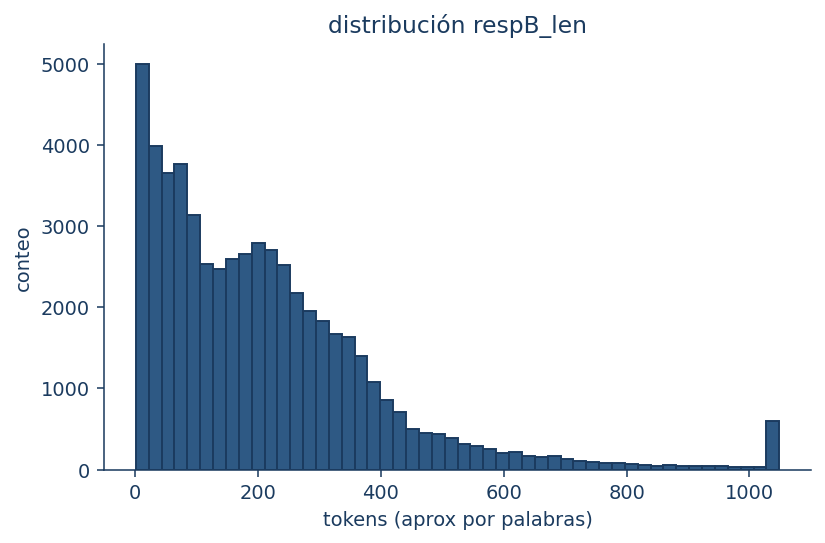
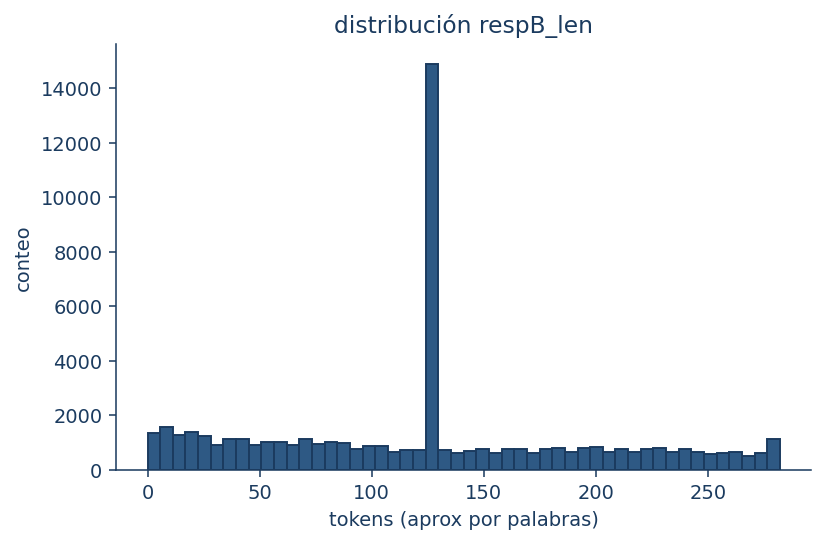
feat: implementación final para limpieza

Changed region(s): [[0.0303, 0.0884, 0.9697, 0.9724], [0.3939, 0.0295, 0.7273, 0.0884]]

diff --git a/01_data_cleaning/core/truncation.py b/01_data_cleaning/core/truncation.py
@@ -1,63 +1,136 @@
 import re
 import pandas as pd
-from settings import MAX_LEN_RESP
+
+from settings import (
+    MAX_LEN_PROMPT, MAX_LEN_RESP, BULLET_CAP,
+    HEAD_TOK, TAIL_TOK, MID_STRIDE, computeRespTarget
+)
+from text_utils import splitSentences, tokenCount, stripBoilerplate
 
 def estimateTruncation(len_series: pd.Series, max_len: int) -> pd.Series:
-    # devuelve True donde la serie excede max_len
     return (len_series > max_len)
 
-def collapseBulletsAndRepeats(text: str, max_bullets: int = 40) -> str:
-    t = str(text or "")  # asegurar que sea string
-    lines = [l for l in t.split("\n")]
-    count = 0
-    out_lines = []
+def collapseBulletsAndRepeats(text: str, max_bullets: int = BULLET_CAP) -> str:
+    t = str(text or "")
+    # limitar bullets
+    lines = t.split("\n")
+    out, seen, count = [], {}, 0
     for l in lines:
-        # contar bullets y limitar a max_bullets
         if re.match(r"^\s*(?:[-\*\•]|\d+\.)\s+", l):
             count += 1
             if count <= max_bullets:
-                out_lines.append(l)
+                out.append(l)
         else:
-            out_lines.append(l)
+            out.append(l)
     if count > max_bullets:
-        out_lines.append("…")  # indicar truncamiento
-    t = "\n".join(out_lines)
+        out.append("…")
+    t = "\n".join(out)
 
-    # separar en chunks por saltos de línea dobles
-    chunks = [c.strip() for c in re.split(r"(\n\s*\n+)", t)]
-    seen = {}
-    new_chunks = []
+    # dedup de bloques repetidos (>2)
+    chunks = [c for c in re.split(r"(\n\s*\n+)", t)]
+    out = []
     for c in chunks:
-        if not c.strip():
-            new_chunks.append(c)
+        k = c.strip().lower()
+        if k and not k.isspace():
+            seen[k] = seen.get(k, 0) + 1
+            if seen[k] <= 2:
+                out.append(c)
+        else:
+            out.append(c)
+    return "".join(out).strip() or text
+
+def headTailTokens(tokens: list, head: int, tail: int) -> list:
+    if len(tokens) <= head + tail:
+        return tokens
+    return tokens[:head] + ["…"] + tokens[-tail:]
+
+def sampleMiddle(tokens: list, target: int, stride: int = MID_STRIDE) -> list:
+    if len(tokens) <= target:
+        return tokens
+    # recorta del centro con muestreo
+    left = tokens[: len(tokens)//2]
+    right = tokens[len(tokens)//2 :]
+    mid = tokens[len(left)-min(64, len(tokens)//4) : len(left)+min(64, len(tokens)//4)]
+    sampled = mid[::max(1, stride)]
+    merged = left[:HEAD_TOK] + ["…"] + sampled + ["…"] + right[-TAIL_TOK:]
+    if len(merged) > target:
+        merged = merged[:target-1] + ["…"]
+    return merged
+
+def compressToTarget(text: str, resp_target: int) -> str:
+    t = stripBoilerplate(str(text or "").strip())
+    if not t:
+        return text
+
+    # si cabe, retorna
+    toks = t.split()
+    if len(toks) <= resp_target:
+        return t
+
+    # head+tail
+    toks = headTailTokens(toks, HEAD_TOK, TAIL_TOK)
+    if len(toks) <= resp_target:
+        return " ".join(toks)
+
+    # muestreo del medio
+    toks = sampleMiddle(toks, resp_target, MID_STRIDE)
+    # dedup de oraciones exactas (>2)
+    sents = splitSentences(" ".join(toks))
+    counts, out = {}, []
+    for s in sents:
+        k = s.strip().lower()
+        if not k:
             continue
-        k = c.lower()
-        seen[k] = seen.get(k, 0) + 1
-        if seen[k] <= 2:  # permitir máximo 2 repeticiones
-            new_chunks.append(c)
-    t = "".join(new_chunks)
+        counts[k] = counts.get(k, 0) + 1
+        if counts[k] <= 2:
+            out.append(s)
+    out_text = " ".join(out).strip()
+    if tokenCount(out_text) > resp_target:
+        out_text = " ".join(out_text.split()[:resp_target-1] + ["…"])
+    return out_text or text
 
-    # quitar saludos largos
-    t = re.sub(r"^(?:hi|hello|dear|greetings)[\s\.,!\-:]*.{150,300}?(?=\n|$)", "", t, flags=re.I|re.S)
-    # quitar menciones de ser IA
-    t = re.sub(r"(?:as an ai|i am an ai|language model).*", "", t, flags=re.I)
-    return t.strip() or text  # si queda vacío, devolver texto original
+def miniHeadTailPrompt(s: str) -> str:
+    toks = str(s or "").split()
+    if len(toks) <= MAX_LEN_PROMPT:
+        return s
+    toks = headTailTokens(toks, HEAD_TOK // 2, TAIL_TOK // 2)
+    return " ".join(toks)
 
-def applyTailControl(df: pd.DataFrame, max_len_resp=MAX_LEN_RESP, p99_hint: dict = None):
-    # extraer percentiles p99 si hay hint
-    p99_a = p99_hint.get("respA_len_p99") if p99_hint else None
-    p99_b = p99_hint.get("respB_len_p99") if p99_hint else None
+def applyTailControl(df: pd.DataFrame, max_len_resp: int = MAX_LEN_RESP, p99_hint: dict | None = None):
+    # longitudes base
+    a_len = df["response_a_clean"].astype(str).str.split().str.len()
+    b_len = df["response_b_clean"].astype(str).str.split().str.len()
+    p_len = df["prompt_clean"].astype(str).str.split().str.len()
 
-    # calcular largo de cada respuesta
-    a_len = df["response_a_clean"].str.split().str.len()
-    b_len = df["response_b_clean"].str.split().str.len()
+    # p99 opcional
+    p99_a = p99_hint.get("respA_len_p99") if p99_hint else a_len.quantile(0.99)
+    p99_b = p99_hint.get("respB_len_p99") if p99_hint else b_len.quantile(0.99)
 
-    # determinar qué filas necesitan truncamiento
-    need_a = estimateTruncation(a_len, max_len_resp) | (a_len >= (p99_a or a_len.quantile(0.99)))
-    need_b = estimateTruncation(b_len, max_len_resp) | (b_len >= (p99_b or b_len.quantile(0.99)))
+    need_a = estimateTruncation(a_len, max_len_resp) | (a_len >= p99_a)
+    need_b = estimateTruncation(b_len, max_len_resp) | (b_len >= p99_b)
 
-    # truncar donde se necesita
-    df.loc[need_a, "response_a_clean"] = df.loc[need_a, "response_a_clean"].map(lambda t: collapseBulletsAndRepeats(t, 28))
-    df.loc[need_b, "response_b_clean"] = df.loc[need_b, "response_b_clean"].map(lambda t: collapseBulletsAndRepeats(t, 28))
-    
+    # objetivo dinámico por fila
+    resp_targets = p_len.map(lambda n: computeRespTarget(int(n)))
+
+    # A
+    if need_a.any():
+        sub = df.loc[need_a, "response_a_clean"].map(lambda t: collapseBulletsAndRepeats(t, BULLET_CAP))
+        sub = sub.map(stripBoilerplate)
+        df.loc[need_a, "response_a_clean"] = [
+            compressToTarget(t, int(resp_targets.loc[idx])) for idx, t in sub.items()
+        ]
+
+    # B
+    if need_b.any():
+        sub = df.loc[need_b, "response_b_clean"].map(lambda t: collapseBulletsAndRepeats(t, BULLET_CAP))
+        sub = sub.map(stripBoilerplate)
+        df.loc[need_b, "response_b_clean"] = [
+            compressToTarget(t, int(resp_targets.loc[idx])) for idx, t in sub.items()
+        ]
+
+    # prompt mini head+tail si excede
+    over_p = p_len > MAX_LEN_PROMPT
+    if over_p.any():
+        df.loc[over_p, "prompt_clean"] = df.loc[over_p, "prompt_clean"].map(miniHeadTailPrompt)
+
     return df

diff --git a/01_data_cleaning/core/text_utils.py b/01_data_cleaning/core/text_utils.py
@@ -75,3 +75,23 @@ def infoLen(text: str) -> int:
     if t == "no response":
         return 0
     return len(t.split())  # contar palabras
+
+def splitSentences(text: str) -> list[str]:
+    # split simple por puntuación fuerte y saltos de línea
+    t = str(text or "").strip()
+    t = re.sub(r"\s+", " ", t)
+    parts = re.split(r"(?<=[\.\?\!])\s+|\n+", t)
+    return [p.strip() for p in parts if p and p.strip()]
+
+def tokenCount(text: str) -> int:
+    return len(str(text or "").split())
+
+def stripBoilerplate(text: str) -> str:
+    t = str(text or "")
+    # saludos largos al inicio
+    t = re.sub(r"^\s*(hi|hello|dear|greetings)[\s\.,!\-:]*.{80,300}?(?=\n|$)", "", t, flags=re.I|re.S)
+    # disclaimers IA
+    t = re.sub(r"\b(as an ai|i am an ai|language model)\b.*", "", t, flags=re.I)
+    # firmas y rúbricas genéricas
+    t = re.sub(r"(best regards|kind regards|sincerely|thanks|thank you)[\.,!\-:]*.*$", "", t, flags=re.I)
+    return t.strip()

diff --git a/01_data_cleaning/core/settings.py b/01_data_cleaning/core/settings.py
@@ -1,3 +1,22 @@
+# límites reales de tokenización
 MAX_LEN_PROMPT = 96
 MAX_LEN_RESP = 288
 TOTAL_BUDGET = 387
+
+# acolchonamiento y caps
+SPECIAL_TOK_PAD = 9
+RESP_MIN = 120
+RESP_MAX = 160
+BULLET_CAP = 24
+
+# extracción/truncado mixto
+HEAD_TOK = 96
+TAIL_TOK = 32
+MID_STRIDE = 24
+
+def computeRespTarget(prompt_len: int) -> int:
+    # target dinámico por respuesta con clip al rango seguro
+    usable = TOTAL_BUDGET - min(int(prompt_len), MAX_LEN_PROMPT) - SPECIAL_TOK_PAD
+    target = usable / 2.0
+    target = max(RESP_MIN, min(RESP_MAX, target))
+    return int(round(target))
